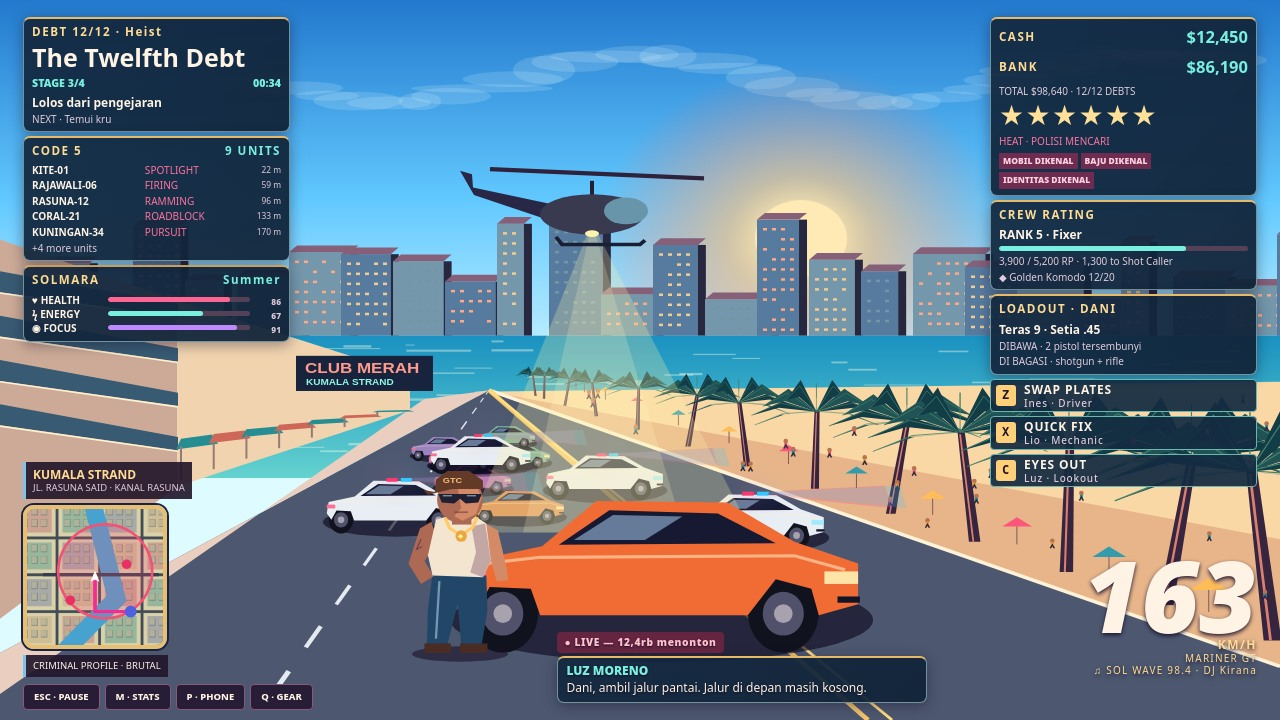
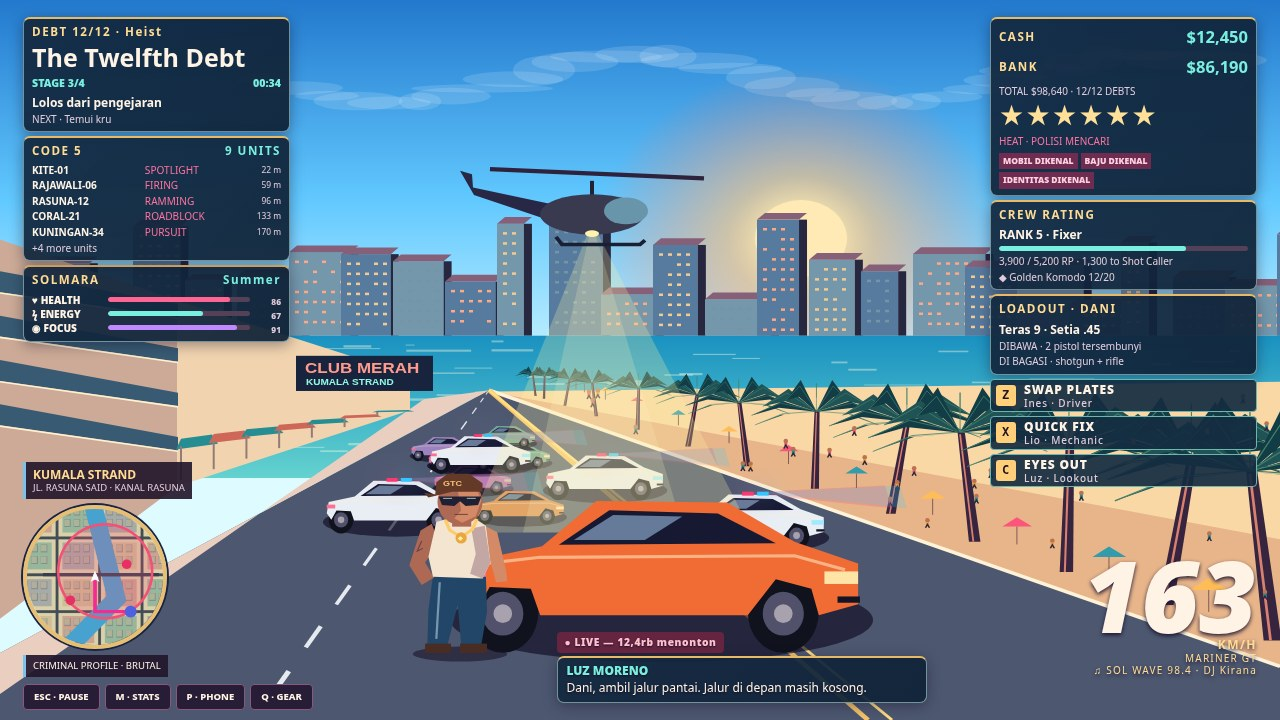
Unify Dani scale against car roof height and recapture R7

diff --git a/game/src/art.js b/game/src/art.js
@@ -2,8 +2,10 @@ import {districts, position} from './data.js';
 const ctx = document.querySelector('#city').getContext('2d');
 let g = ctx;
 const ink = '#150f25';
-// Compare the standing sprite and the roof at the same depth.
-const personToCarScale = 1.2 * 97 / 190;
+// Use tire contact, not the car's body sill or shadow, as the ground line.
+const carRoofHeight = 48 + 49;
+const personHeight = 190;
+const personToCarScale = 1.18 * carRoofHeight / personHeight;
 function rect(x,y,w,h,c){g.fillStyle=c;g.fillRect(x,y,w,h);}
 function oval(x,y,w,h,c){g.beginPath();g.ellipse(x,y,w,h,0,0,Math.PI*2);g.fillStyle=c;g.fill();}
 function poly(c,...points){g.beginPath();g.moveTo(...points[0]);for(const p of points.slice(1))g.lineTo(...p);g.closePath();g.fillStyle=c;g.fill();}
@@ -148,7 +150,7 @@ function boulevard(title, state, frame, quality, still){
   }
   if(title){
     car(770,700,.91,'#e57743');
-    person(865,743,.55);
+    person(865,743,.91*personToCarScale);
     return;
   }
   if(!still)return;
@@ -156,7 +158,7 @@ function boulevard(title, state, frame, quality, still){
   aircraft(592,266);
   rect(296,425,137,42,'#18243e');label('CLUB MERAH',305,445,17,'#ff9b8c');label('KUMALA STRAND',306,460,10,'#92f7e2');
   car(658,690,1.87,'#f16b34');
-  person(460,780,1.145);
+  person(460,780,1.87*personToCarScale);
 }
 function interior(vault, frame){
   rect(0,0,1280,860,gradient(0,860,'#201938','#63335d','#211b32'));
@@ -203,7 +205,7 @@ function interior(vault, frame){
     line('#fff4ab',2,[571,630],[851,492]);
     line('#ffd974',3,[571,630],[664,594]);
   }
-  person(459,739,.88,false,true);
+  person(459,739,1.43*personToCarScale,false,true);
   for(let i=0;i<47;i++){
     const x=300+rand(i+40)*690,y=300+(rand(i)*560+frame*1.2)%507;
     if((Math.abs(x-494)<55||Math.abs(x-812)<55)&&y>373&&y<500)continue;

diff --git a/game/style.css b/game/style.css
@@ -47,7 +47,7 @@ canvas:has(+.safehouse){display:block;width:100%;height:auto;border:1px solid #8
 .abilities kbd{background:#ffd079}
 .hud-left{grid-template-areas:"objective" "roster" "vitals"}
 .hud-left .objective{grid-area:objective}.hud-left .roster{grid-area:roster}.hud-left .vitals{grid-area:vitals}
-.hud-map canvas{border-radius:11px;border-color:#e7bf73}
+.hud-map canvas{border-radius:50%;border-color:#e7bf73}
 body[data-scene=hero] .dialogue,.dialogue{bottom:3%;left:51%;width:min(410px,38vw)}
 .main-menu{top:39%;grid-template-columns:1fr;width:min(245px,34vw);gap:4px}
 .main-menu button{background:#101d32df;border-color:#739298;border-left-color:#f4bd6a;padding:4px 10px}

diff --git a/README.md b/README.md
@@ -20,4 +20,19 @@ Run `node serve.ts` and open `http://127.0.0.1:8080`.
 
 Save slots and settings stay in the browser. Completing a debt autosaves to the current slot. Use the pink GPS line to reach mission objectives. In Free Roam, the phone can take you to the pier or back to Kuningan.
 
-The four showcase URLs in `shots.json` stage the daytime Kumala chase, MART 24 robbery, coastal progression atlas, and sunset title screen at 1280 × 720. The campaign follows Dani, with support from Ines, Lio, and Luz. Package the game and the captures locally with `MAKEFUN_OUTPUT_DIR=out node main.ts`.
+The four showcase URLs in `shots.json` stage the daytime Kumala chase, MART 24 robbery, coastal progression atlas, and sunset title screen. Action and title captures are 1280 × 720; the complete records sheet is 1280 × 1056 so its lower panels stay visible. The campaign follows Dani, with support from Ines, Lio, and Luz. Package the game and the captures locally with `MAKEFUN_OUTPUT_DIR=out node main.ts`.
+
+Dani's full-body scale uses the adjacent car's tire-contact-to-roof height, rather than its body sill or shadow. The shared target is 1.18× in the hero, market, title, and on-foot city render. The stats screen contains a booking portrait, not a standing character beside a vehicle; a person-to-car ratio does not apply there.
+
+November 21 scale audit, measured in the Chromium captures (approximately ±1 px at raster edges):
+
+| Capture | Dani height before → after | Car roof height | Ratio before → after |
+| --- | --- | --- | --- |
+| Summer hero | 182.1 → 179.2 px | 151.9 px, orange Mariner | 1.199 → 1.180 |
+| Spring market | 140.0 → 137.0 px | 116.1 px, foreground cruiser | 1.205 → 1.180 |
+| Stats | Booking portrait only | No spatial reference | Not applicable |
+| Title | 87.5 → 87.2 px | 73.9 px, orange car | 1.184 → 1.180 |
+
+The checked-in starting captures did not reproduce the reported 1.9× ratio when measured from tire contact to roof. The updated code makes the same 1.18× rule explicit across full-body scenes. In the hero capture Dani spans y≈473.8–653.0 and the car spans y≈501.0–652.8; in market the respective spans are 481.7–618.7 and 555.0–671.1; on the title they are 534.8–622.0 and 548.7–622.6. Shadows and the cruiser's light bar are excluded.
+
+Browser verification covered Continue, confirmed New Game, three writable/loadable slots, debt autosave, persistent sliders/graphics/HUD, Free Roam, all four movement modes, phone apps, and Heat/evidence escape. All four showcase captures repeated byte-for-byte without page errors. Local `makefun check` does not validate the unsealed recording's server-side transcript gates.
